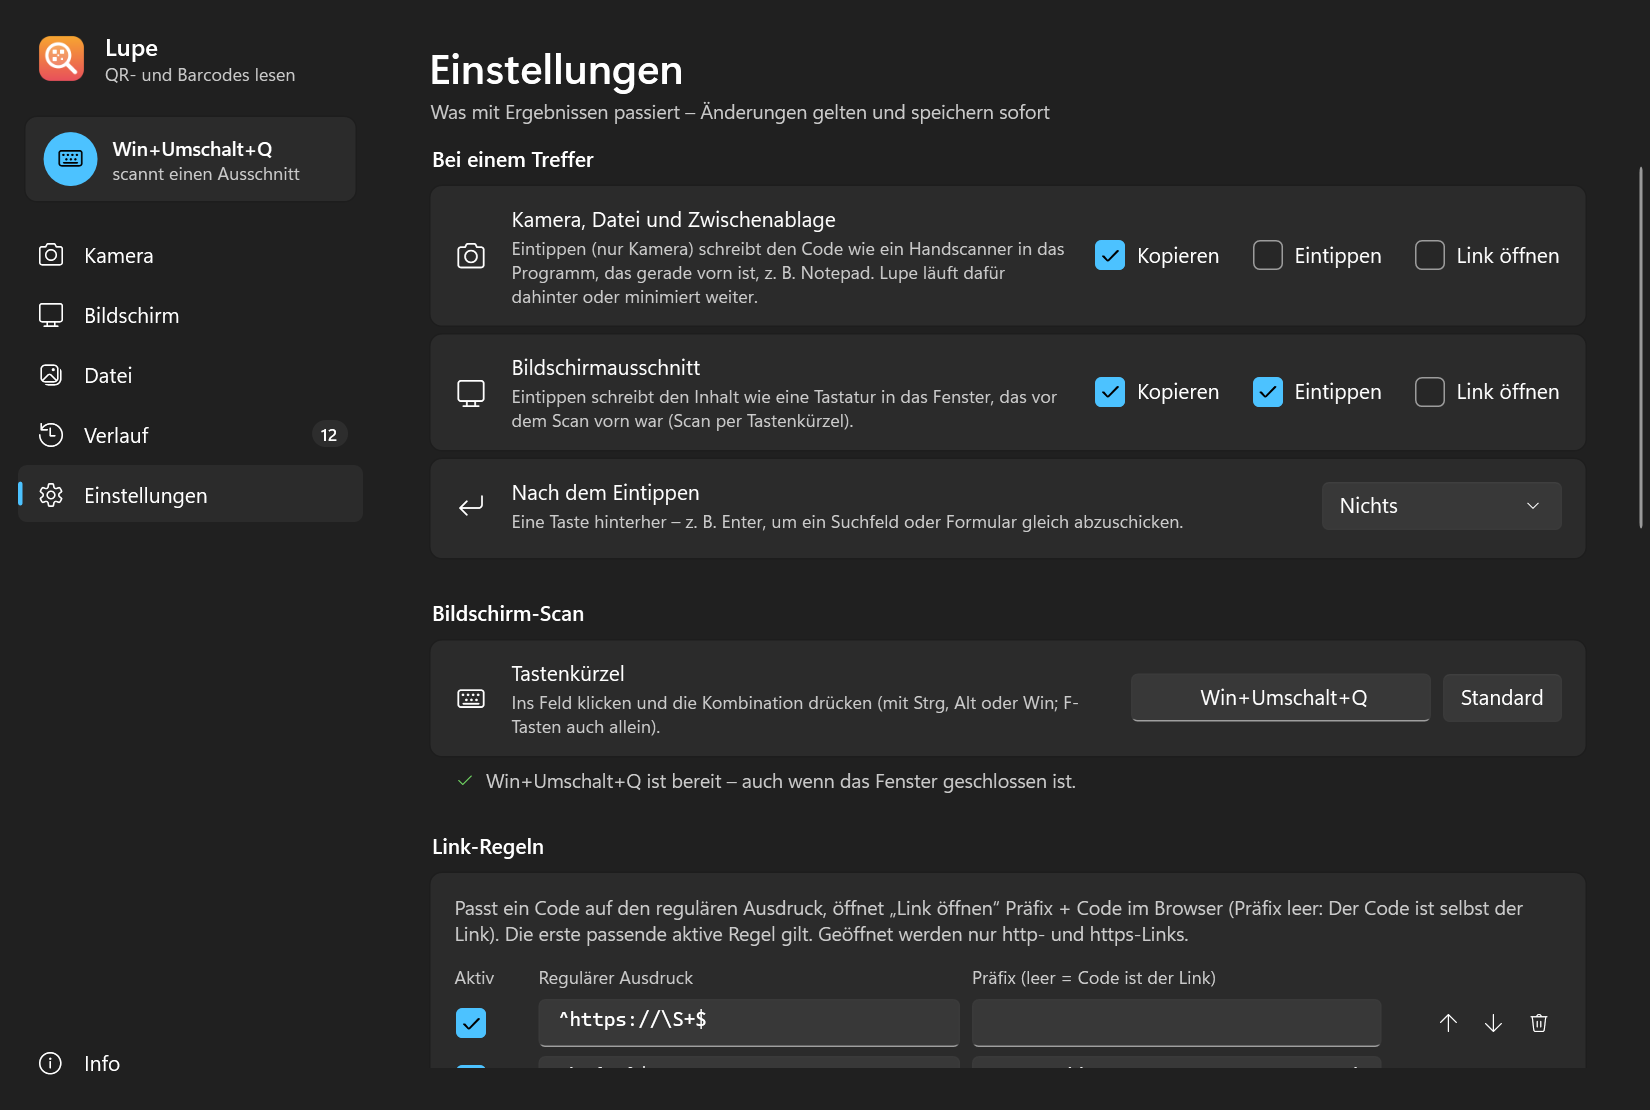
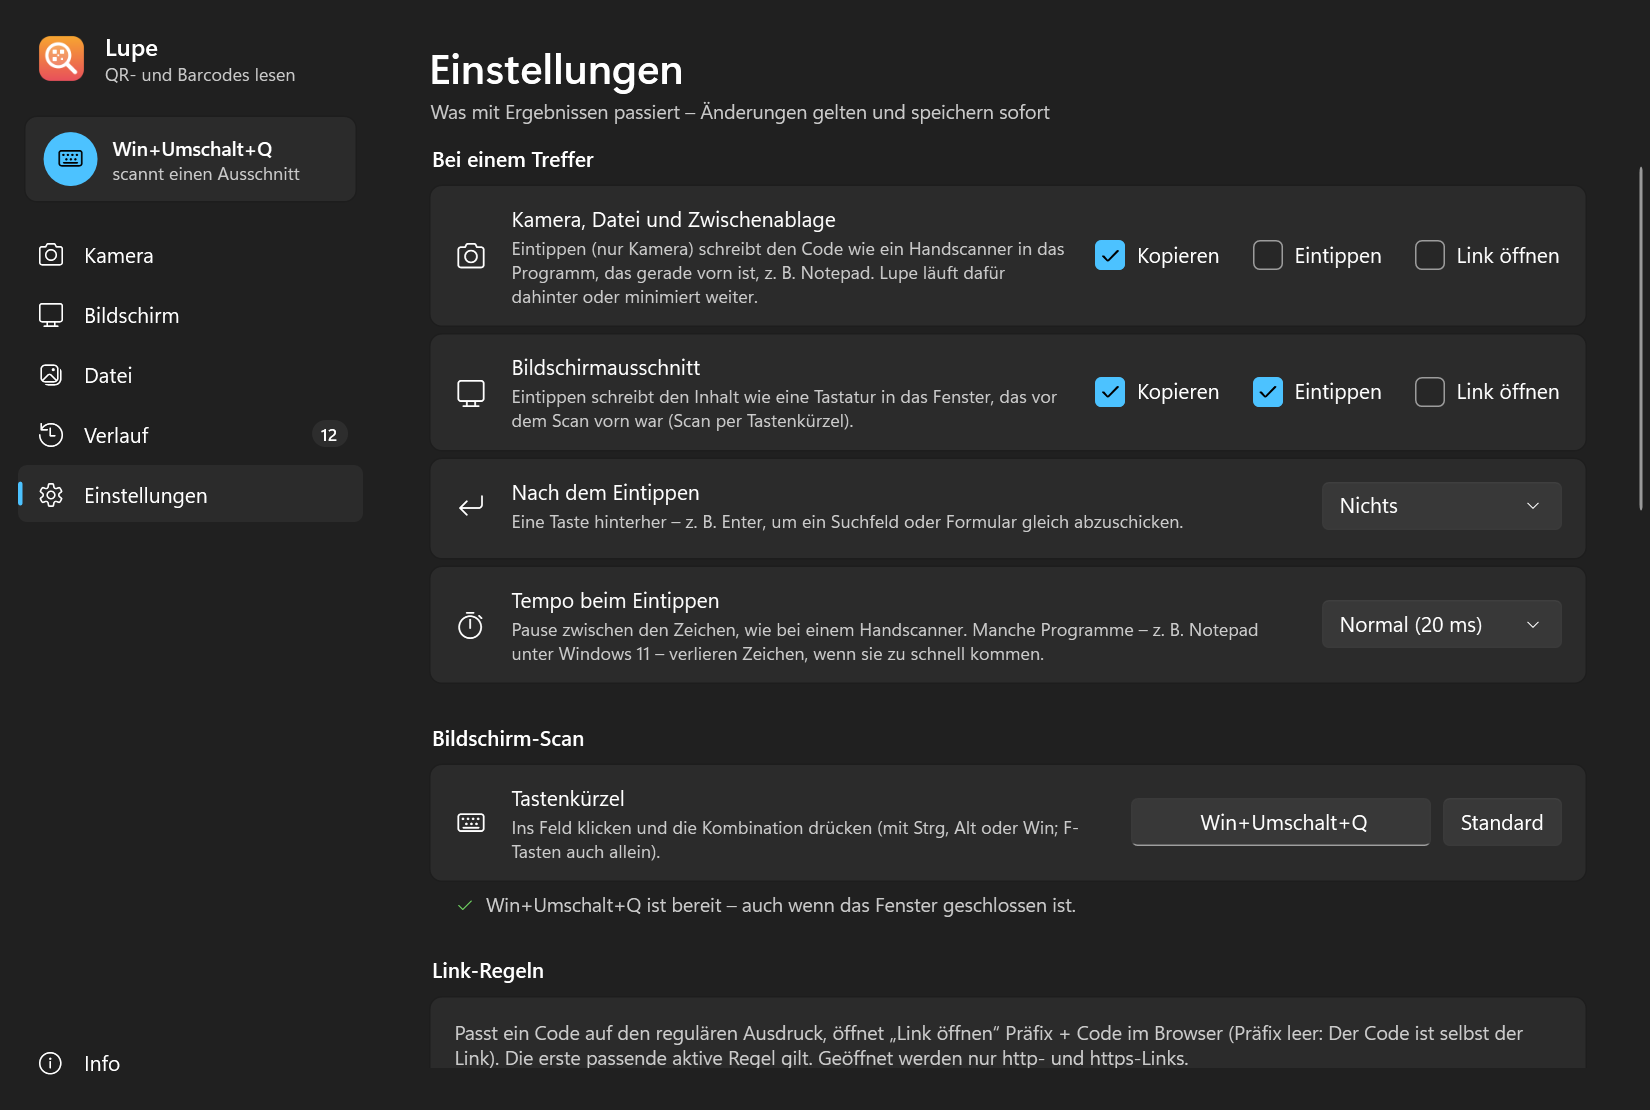
Eintippen Zeichen für Zeichen mit Pause – Notepad verlor Zeichen
Notepad unter Windows 11 liest das Zeichen einer Unicode-Eingabe erst beim Verarbeiten; kam ein ganzer Code in einem SendInput, bekam es nur noch das zuletzt gesendete Zeichen ('Wikipédia,eeeeee…'). In Notepad gemessen: bis 8 ms Pause fehlerhaft, ab etwa 16 ms sicher. Neue Einstellung 'Tempo beim Eintippen' (Sofort/10/20/40 ms, Standard 20 ms) für Kamera und Bildschirm-Scan; die Pause misst ein hochauflösender Zeitgeber, weil Windows gewöhnliche Wartezeiten auf 15,6-ms-Schritte aufrundet. Mit Lupes Code in Notepad geprüft: 5 von 5 Durchgängen fehlerfrei.

diff --git a/src/Lupe/UI/Pages/SettingsPage.xaml b/src/Lupe/UI/Pages/SettingsPage.xaml
@@ -47,6 +47,15 @@
                     <ComboBoxItem Content="Tab" Tag="Tab"/>
                 </ComboBox>
             </ui:SettingCard>
+            <ui:SettingCard Glyph="&#xE916;" Header="Tempo beim Eintippen"
+                            Description="Pause zwischen den Zeichen, wie bei einem Handscanner. Manche Programme – z. B. Notepad unter Windows 11 – verlieren Zeichen, wenn sie zu schnell kommen.">
+                <ComboBox x:Name="DelayBox" Width="160" SelectionChanged="Delay_SelectionChanged" AutomationProperties.Name="Tempo beim Eintippen">
+                    <ComboBoxItem Content="Sofort" Tag="0"/>
+                    <ComboBoxItem Content="Schnell (10 ms)" Tag="10"/>
+                    <ComboBoxItem Content="Normal (20 ms)" Tag="20"/>
+                    <ComboBoxItem Content="Langsam (40 ms)" Tag="40"/>
+                </ComboBox>
+            </ui:SettingCard>
 
             <!-- ========== Tastenkürzel ========== -->
             <TextBlock Text="Bildschirm-Scan" Style="{StaticResource SectionText}"/>

diff --git a/src/Lupe.Core/Input/KeyboardTyper.cs b/src/Lupe.Core/Input/KeyboardTyper.cs
@@ -63,13 +63,21 @@ public static class KeyboardTyper
     }
 
     /// <summary>Wie <see cref="Type"/>, meldet aber, ob alles angekommen ist; sonst steht der Grund auf Deutsch in <paramref name="error"/>.</summary>
-    public static bool TryType(string text, string suffix, out string? error, CancellationToken ct = default)
+    public static bool TryType(string text, string suffix, out string? error, CancellationToken ct = default) =>
+        TryType(text, suffix, 0, out error, ct);
+
+    /// <param name="delayMs">
+    /// Pause zwischen zwei Zeichen (0 = alles in Paketen auf einmal). Manche Programme – allen voran Notepad unter
+    /// Windows 11 – verarbeiten Unicode-Eingaben verzögert und lesen das Zeichen erst dann; kommen die Zeichen schneller,
+    /// bekommen sie nur noch das zuletzt gesendete. Mit Pause geht jedes Zeichen einzeln hinaus, wie bei einem Handscanner.
+    /// </param>
+    public static bool TryType(string text, string suffix, int delayMs, out string? error, CancellationToken ct = default)
     {
         // Zwei gleichzeitige Aufrufe würden ihre Pakete ineinander verschränken – nacheinander tippen.
-        lock (TypingGate) return TypeCore(text, suffix, SystemKeyboard.Instance, out error, ct);
+        lock (TypingGate) return TypeCore(text, suffix, SystemKeyboard.Instance, out error, ct, delayMs);
     }
 
-    internal static bool TypeCore(string text, string? suffix, IKeyboard keyboard, out string? error, CancellationToken ct)
+    internal static bool TypeCore(string text, string? suffix, IKeyboard keyboard, out string? error, CancellationToken ct, int delayMs = 0)
     {
         ArgumentNullException.ThrowIfNull(text);
         ct.ThrowIfCancellationRequested();
@@ -89,10 +97,12 @@ public static class KeyboardTyper
         if (release.Length > 0 && !Send(keyboard, release, typedBefore: false, out error)) return false;
 
         bool typed = false;
-        foreach (var (offset, count) in Batches(inputs, MaxInputsPerBatch))
+        // Mit Zeichenpause geht jede Taste (bei Emoji das Surrogatpaar) als eigenes Paket hinaus
+        int perBatch = delayMs > 0 ? 1 : MaxInputsPerBatch, pause = delayMs > 0 ? delayMs : BatchPauseMs;
+        foreach (var (offset, count) in Batches(inputs, perBatch))
         {
             ct.ThrowIfCancellationRequested();
-            if (typed) keyboard.Pause(BatchPauseMs, ct);
+            if (typed) keyboard.Pause(pause, ct);
             ct.ThrowIfCancellationRequested();
             if (!Send(keyboard, inputs.AsSpan(offset, count), typed, out error)) return false;
             typed = true;
@@ -352,7 +362,42 @@ internal sealed unsafe class SystemKeyboard : IKeyboard
 
     public bool IsDown(int virtualKey) => Native.GetAsyncKeyState(virtualKey) < 0;
 
-    public void Pause(int milliseconds, CancellationToken ct) => ct.WaitHandle.WaitOne(milliseconds);
+    /// <summary>
+    /// Wartet genau: Gewöhnliche Wartezeiten teilt Windows in 15,6-ms-Schritte ein (aus 20 ms Zeichenpause wurden 31 ms),
+    /// und einen feineren Takt per timeBeginPeriod gewährt Windows 11 Prozessen mit minimiertem Fenster nicht verlässlich –
+    /// genau dann tippt Lupe aber als Handscanner. Ein hochauflösender Wartezeitgeber hält die Zeit unabhängig davon.
+    /// </summary>
+    public void Pause(int milliseconds, CancellationToken ct)
+    {
+        if (milliseconds <= 0) return;
+        nint timer = Native.CreateWaitableTimerExW(0, null, Native.CREATE_WAITABLE_TIMER_HIGH_RESOLUTION, Native.TIMER_ALL_ACCESS);
+        if (timer == 0)
+        {
+            ct.WaitHandle.WaitOne(milliseconds);
+            return;
+        }
+        try
+        {
+            long due = -10_000L * milliseconds; // negativ = relativ, in 100-ns-Schritten
+            if (!Native.SetWaitableTimer(timer, &due, 0, 0, 0, false))
+            {
+                ct.WaitHandle.WaitOne(milliseconds);
+                return;
+            }
+            using var wait = new BorrowedWaitHandle(timer);
+            WaitHandle.WaitAny([wait, ct.WaitHandle]);
+        }
+        finally
+        {
+            Native.CloseHandle(timer);
+        }
+    }
+
+    /// <summary>Ein fremdes Windows-Handle als WaitHandle (gibt es nicht frei).</summary>
+    private sealed class BorrowedWaitHandle : WaitHandle
+    {
+        public BorrowedWaitHandle(nint handle) => SafeWaitHandle = new Microsoft.Win32.SafeHandles.SafeWaitHandle(handle, ownsHandle: false);
+    }
 
     public string? ForegroundProblem() => Elevation.ForegroundProblem();
 }

diff --git a/src/Lupe/UI/Pages/SettingsPage.xaml.cs b/src/Lupe/UI/Pages/SettingsPage.xaml.cs
@@ -75,6 +75,8 @@ public partial class SettingsPage : UserControl, IPage
             ScrLink.IsChecked = s.ScreenActions.HasFlag(ResultActions.LinkOeffnen);
             SuffixBox.SelectedItem = SuffixBox.Items.OfType<ComboBoxItem>().FirstOrDefault(i => (string)i.Tag == s.TypeSuffix) ?? SuffixBox.Items[0];
             SuffixBox.IsEnabled = s.ScreenActions.HasFlag(ResultActions.Eintippen) || s.Actions.HasFlag(ResultActions.Eintippen);
+            DelayBox.SelectedItem = DelayBox.Items.OfType<ComboBoxItem>().FirstOrDefault(i => (string)i.Tag == s.TypeDelayMs.ToString(System.Globalization.CultureInfo.InvariantCulture));
+            DelayBox.IsEnabled = SuffixBox.IsEnabled;
 
             if (!_recording) HotkeyBox.Text = FormatHotkey(s.ScreenHotkey);
             UpdateHotkeyState();
@@ -132,6 +134,7 @@ public partial class SettingsPage : UserControl, IPage
         var actions = Of(ActCopy, ActType, ActLink);
         var screen = Of(ScrCopy, ScrType, ScrLink);
         SuffixBox.IsEnabled = screen.HasFlag(ResultActions.Eintippen) || actions.HasFlag(ResultActions.Eintippen);
+        DelayBox.IsEnabled = SuffixBox.IsEnabled;
         _state.UpdateSettings(s => s with { Actions = actions, ScreenActions = screen });
     }
 
@@ -139,6 +142,13 @@ public partial class SettingsPage : UserControl, IPage
     {
         if (_loading || SuffixBox.SelectedItem is not ComboBoxItem { Tag: string suffix }) return;
         _state.UpdateSettings(s => s with { TypeSuffix = suffix });
+    }
+
+    private void Delay_SelectionChanged(object sender, SelectionChangedEventArgs e)
+    {
+        if (_loading || DelayBox.SelectedItem is not ComboBoxItem { Tag: string tag }) return;
+        int delay = int.Parse(tag, System.Globalization.CultureInfo.InvariantCulture);
+        _state.UpdateSettings(s => s with { TypeDelayMs = delay });
     }
 
     // ================= Tastenkürzel =================

diff --git a/src/Lupe.Core/Settings/SettingsStore.cs b/src/Lupe.Core/Settings/SettingsStore.cs
@@ -25,6 +25,9 @@ public static class SettingsStore
     /// gemessen rund 40 ms, bei 100 000 stünde die Oberfläche bei jedem Treffer spürbar.
     /// </summary>
     public const int MaxHistoryLimit = 10_000;
+    /// <summary>Größter erlaubter Wert für <see cref="LupeSettings.TypeDelayMs"/> (eine halbe Sekunde je Zeichen).</summary>
+    public const int MaxTypeDelayMs = 500;
+
     /// <summary>Größter erlaubter Wert für <see cref="LupeSettings.RepeatSuppressMs"/> (eine Stunde).</summary>
     public const int MaxRepeatSuppressMs = 3_600_000;
 
@@ -178,6 +181,7 @@ public static class SettingsStore
             Actions = settings.Actions & AllActions,
             ScreenActions = settings.ScreenActions & AllActions,
             TypeSuffix = NormalizeSuffix(settings.TypeSuffix),
+            TypeDelayMs = Math.Clamp(settings.TypeDelayMs, 0, MaxTypeDelayMs),
             LinkRules = settings.LinkRules is null ? defaults.LinkRules : NormalizeRules(settings.LinkRules),
             Formats = settings.Formats is null ? defaults.Formats : NormalizeFormats(settings.Formats),
             ScreenHotkey = IsUsableHotkey(settings.ScreenHotkey) ? settings.ScreenHotkey : Hotkey.Default,
@@ -273,6 +277,7 @@ public static class SettingsStore
         [nameof(LupeSettings.Actions)] = "Aktionen (Kamera/Datei)",
         [nameof(LupeSettings.ScreenActions)] = "Aktionen (Bildschirm)",
         [nameof(LupeSettings.TypeSuffix)] = "Taste nach dem Eintippen",
+        [nameof(LupeSettings.TypeDelayMs)] = "Tempo beim Eintippen",
         [nameof(LupeSettings.LinkRules)] = "Link-Regeln",
         [nameof(LupeSettings.Formats)] = "Formate",
         [nameof(LupeSettings.ScreenHotkey)] = "Tastenkürzel",

diff --git a/src/Lupe/Services/Desktop.cs b/src/Lupe/Services/Desktop.cs
@@ -137,7 +137,7 @@ internal static class Typing
     /// Holt <paramref name="target"/> nach vorn und tippt den Text. Kommt das Fenster nicht in den Vordergrund,
     /// wird nichts getippt – sonst landete der Inhalt in einem fremden Fenster. Fehlermeldung oder null.
     /// </summary>
-    public static async Task<string?> TypeIntoAsync(nint target, string text, string suffix)
+    public static async Task<string?> TypeIntoAsync(nint target, string text, string suffix, int delayMs)
     {
         if (target == 0 || !Native.IsWindow(target)) return "Das Fenster von vorher gibt es nicht mehr.";
         if (Native.IsIconic(target)) Native.ShowWindow(target, Native.SW_RESTORE);
@@ -152,7 +152,7 @@ internal static class Typing
         {
             // Wartet im Core, bis Strg/Alt des Tastenkürzels losgelassen sind – nicht auf dem Oberflächen-Thread. TryType statt
             // Type: Verwirft Windows die Eingabe (Zielfenster als Administrator, gesperrter Desktop), steht der Grund in der Meldung.
-            return await Task.Run(() => KeyboardTyper.TryType(text, suffix, out string? error) ? null : error ?? "Eintippen fehlgeschlagen.");
+            return await Task.Run(() => KeyboardTyper.TryType(text, suffix, delayMs, out string? error) ? null : error ?? "Eintippen fehlgeschlagen.");
         }
         catch (Exception ex) when (ex is not OutOfMemoryException)
         {

diff --git a/src/Lupe.Core/Input/Native.cs b/src/Lupe.Core/Input/Native.cs
@@ -65,6 +65,18 @@ internal static unsafe partial class Native
     [LibraryImport("user32.dll", SetLastError = true)]
     public static partial uint SendInput(uint cInputs, INPUT* pInputs, int cbSize);
 
+    // ---------- Genaue Wartezeiten (Zeichenpause beim Tippen) ----------
+    public const uint CREATE_WAITABLE_TIMER_HIGH_RESOLUTION = 0x00000002;
+    public const uint TIMER_ALL_ACCESS = 0x001F0003;
+
+    [LibraryImport("kernel32.dll", SetLastError = true, StringMarshalling = StringMarshalling.Utf16)]
+    public static partial nint CreateWaitableTimerExW(nint lpTimerAttributes, string? lpTimerName, uint dwFlags, uint dwDesiredAccess);
+
+    [LibraryImport("kernel32.dll", SetLastError = true)]
+    [return: MarshalAs(UnmanagedType.Bool)]
+    public static partial bool SetWaitableTimer(nint hTimer, long* lpDueTime, int lPeriod, nint pfnCompletionRoutine,
+        nint lpArgToCompletionRoutine, [MarshalAs(UnmanagedType.Bool)] bool fResume);
+
     /// <summary>Höchstes Bit gesetzt (Wert &lt; 0) = Taste ist gerade gedrückt.</summary>
     [LibraryImport("user32.dll")]
     public static partial short GetAsyncKeyState(int vKey);

diff --git a/tests/Lupe.Tests/Input/KeyboardTyperTests.cs b/tests/Lupe.Tests/Input/KeyboardTyperTests.cs
@@ -467,4 +467,28 @@ public sealed class KeyboardTyperFlowTests
 
         KeyboardTyper.Type("Lupe", "Enter"); // keine Ausnahme
     }
+
+    [Fact]
+    public void Mit_Zeichenpause_geht_jedes_Zeichen_einzeln_hinaus()
+    {
+        // Notepad unter Windows 11 verlor Zeichen, wenn ein ganzer Code in einem SendInput kam
+        var keyboard = new FakeKeyboard();
+
+        Assert.True(KeyboardTyper.TypeCore("Ab\uD83D\uDE00c", "Enter", keyboard, out _, default, delayMs: 20));
+
+        // A, b, Emoji (Surrogatpaar in einem Paket), c, Enter – je Paket genau eine Taste gedrückt und losgelassen
+        Assert.Equal([2, 2, 4, 2, 2], keyboard.Sent.Select(p => p.Length));
+        Assert.Equal([20, 20, 20, 20], keyboard.Pauses);
+    }
+
+    [Fact]
+    public void Ohne_Zeichenpause_bleibt_es_bei_grossen_Paketen()
+    {
+        var keyboard = new FakeKeyboard();
+
+        Assert.True(KeyboardTyper.TypeCore("Hallo Welt", "", keyboard, out _, default, delayMs: 0));
+
+        Assert.Single(keyboard.Sent);
+        Assert.Empty(keyboard.Pauses);
+    }
 }

diff --git a/src/Lupe.Core/Model/Model.cs b/src/Lupe.Core/Model/Model.cs
@@ -97,6 +97,13 @@ public sealed record LupeSettings
     public ResultActions ScreenActions { get; init; } = ResultActions.Kopieren;
     /// <summary>Nach dem Eintippen eine Taste senden: "" (nichts), "Enter" oder "Tab".</summary>
     public string TypeSuffix { get; init; } = "";
+    /// <summary>
+    /// Pause zwischen zwei getippten Zeichen in Millisekunden (0 = alles auf einmal). Notepad unter Windows 11 liest das
+    /// Zeichen einer Unicode-Eingabe erst beim Verarbeiten und bekommt bei zu schnellen Zeichen nur noch das zuletzt
+    /// gesendete („Wikipédia,eeeeee…“) – gemessen: bis 8 ms Pause fehlerhaft, ab etwa 16 ms sicher. Echte Handscanner
+    /// haben dafür ebenfalls eine Zeichenverzögerung.
+    /// </summary>
+    public int TypeDelayMs { get; init; } = 20;
     public IReadOnlyList<LinkRule> LinkRules { get; init; } = [new(@"^https://\S+$")];
     /// <summary>Aktive Formate in ZXing-Schreibweise; leer = alle.</summary>
     public IReadOnlyList<string> Formats { get; init; } = [];

diff --git a/tests/Lupe.Tests/Settings/SettingsStoreTests.cs b/tests/Lupe.Tests/Settings/SettingsStoreTests.cs
@@ -48,6 +48,7 @@ public sealed class SettingsStoreTests : IDisposable
         Assert.Equal(ResultActions.Kopieren, settings.Actions);
         Assert.Equal(ResultActions.Kopieren, settings.ScreenActions);
         Assert.Equal("", settings.TypeSuffix);
+        Assert.Equal(20, settings.TypeDelayMs);
         Assert.Equal([new LinkRule(@"^https://\S+$")], settings.LinkRules);
         Assert.Empty(settings.Formats);
         Assert.Equal(Hotkey.Default, settings.ScreenHotkey);
@@ -637,4 +638,12 @@ public sealed class SettingsStoreTests : IDisposable
         Assert.Equal(1000, settings.HistoryLimit);
         Assert.False(settings.Sound);
     }
+
+    [Theory]
+    [InlineData(-5, 0)]
+    [InlineData(0, 0)]
+    [InlineData(20, 20)]
+    [InlineData(100_000, SettingsStore.MaxTypeDelayMs)]
+    public void Zeichenpause_wird_begrenzt(int stored, int expected) =>
+        Assert.Equal(expected, SettingsStore.Normalize(new LupeSettings { TypeDelayMs = stored }).TypeDelayMs);
 }

diff --git a/src/Lupe/Services/Hits.cs b/src/Lupe/Services/Hits.cs
@@ -131,7 +131,7 @@ internal sealed class Hits(AppState state)
             if (typeTarget == 0) problems.Add(source == ScanSource.Kamera
                 ? "Nicht eingetippt: Lupe ist gerade das aktive Fenster – erst das Zielprogramm anklicken, Lupe kann dahinter oder minimiert weiterlaufen."
                 : "Nicht eingetippt: Der Scan kam aus Lupe selbst – Eintippen geht über das Tastenkürzel aus einem anderen Programm.");
-            else if (await Typing.TypeIntoAsync(typeTarget, code.Text, state.Settings.TypeSuffix) is { } error) problems.Add(error);
+            else if (await Typing.TypeIntoAsync(typeTarget, code.Text, state.Settings.TypeSuffix, state.Settings.TypeDelayMs) is { } error) problems.Add(error);
             else done |= ResultActions.Eintippen;
         }
         if (wanted.HasFlag(ResultActions.LinkOeffnen) && state.LinkFor(code.Text) is { } link)

diff --git a/tests/Lupe.Tests/Settings/SettingsTestSupport.cs b/tests/Lupe.Tests/Settings/SettingsTestSupport.cs
@@ -43,6 +43,7 @@ internal static class SettingsAssert
         Actions = ResultActions.Kopieren | ResultActions.LinkOeffnen,
         ScreenActions = ResultActions.Eintippen,
         TypeSuffix = "Tab",
+        TypeDelayMs = 40,
         LinkRules =
         [
             new(@"^\d{13}$", "https://example.com/artikel?ean="),

diff --git a/docs/how-it-works.md b/docs/how-it-works.md
@@ -102,7 +102,7 @@ Files and clipboard images are loaded through `Windows.Graphics.Imaging`:
 - **Unicode, layout-independent.** Every character goes out as a Unicode keystroke, not as a key of the current keyboard layout – umlauts, `€`, `@` and emoji arrive as they are, also with a US layout. Characters outside the basic plane (emoji) are sent as one surrogate pair.
 - **Line breaks and tabs** (`\r\n`, `\n`, `\r`, U+0085, U+2028, U+2029) become the <kbd>Enter</kbd> key, tabs the <kbd>Tab</kbd> key. **Other control characters cannot be typed and are dropped** – for example the group separator (GS, `0x1D`) in GS1 codes.
 - **Wait until the keys are released.** Before typing, Lupe waits until no key is pressed any more – otherwise “a” with a still-held <kbd>Ctrl</kbd> from the shortcut would become <kbd>Ctrl</kbd>+<kbd>A</kbd>. Modifier keys still held after 1.5 seconds are released artificially for the typing; for <kbd>Alt</kbd> and <kbd>Win</kbd> an unused key is pressed first so that releasing them does not open a menu or the Start menu.
-- **In portions.** Long texts are sent in packets of about 200 characters with a short pause in between, so that the target program keeps up. Two typing jobs never interleave.
+- **One character at a time.** By default every character goes out on its own, with a pause of 20 ms (*Tempo beim Eintippen*), like a hand scanner. Notepad on Windows 11 – and other programs that process keyboard input late – read the character of a Unicode key press only when they get to it; with characters arriving faster than that, they only see the last one sent (*Wikipédia,eeeeee…*). Measured in Notepad: up to 8 ms per character faulty, from about 16 ms reliable. The pause is timed with a high-resolution timer, because ordinary waits are rounded up to 15.6 ms steps. With *Sofort* (immediately) the text goes out in packets of about 200 characters, which most programs handle, but Notepad does not. Two typing jobs never interleave.
 - **Activate first, then type.** Lupe brings the previous window to the front and types only once it really is in front. If it no longer exists or cannot be activated, nothing is typed (*Das Fenster von vorher ließ sich nicht aktivieren – nichts eingetippt.*).
 - **Elevated windows.** If the window in front runs with a higher integrity level than Lupe (as administrator), Windows silently discards the input (User Interface Privilege Isolation) – `SendInput` would even report success. Lupe compares the integrity levels beforehand, types nothing and reports it (*Eintippen nicht möglich – das Fenster im Vordergrund läuft mit höheren Rechten als Lupe (z. B. als Administrator) …*); the result does not count as typed.
 - **Partial input.** If Windows stops accepting input midway, Lupe releases any key it left pressed, stops and reports it (*Eintippen wurde unterbrochen – der Text kam nur teilweise an.*).
